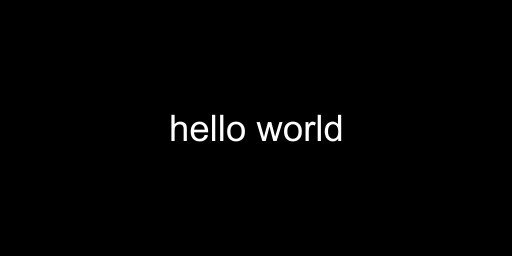
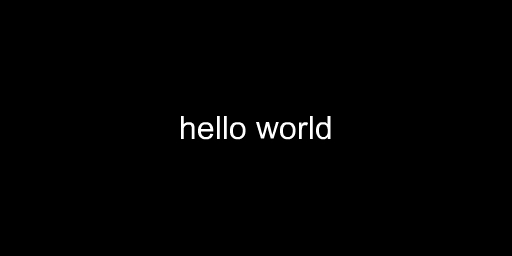
feat!: migrate from Canvas to Jimp
BREAKING CHANGE: the `--font-size` and `--font-family` flags are no longer available

Changed region(s): [[0.3125, 0.4375, 0.6875, 0.5625]]

diff --git a/src/utils/make-image.js b/src/utils/make-image.js
@@ -1,44 +1,20 @@
 import { parse, join } from 'node:path';
-import { createWriteStream } from 'node:fs';
 
-import { createCanvas } from 'canvas';
+import Jimp from 'jimp';
 
 /**
  * Generates a placeholder image.
  * @param {number} width - The width of the canvas (in pixels).
  * @param {number} height - The height of the canvas (in pixels).
  * @param {object} options - Configuration options for image generation.
- * @param {string} options.background - Background color for the image.
- * @param {string} options.textColor - Text color for the image.
+ * @param {string} options.background - Background color for the image (accepts CSS colors - Hex, RGB, RGBA, HSL, HSLA, HSV, HSVA, Named)
  * @param {string} options.text - Text to display on the image.
- * @param {string} options.fontSize - Font size for the text.
- * @param {string} options.fontFamily - Font family for the text.
+ * @param {string} options.textColor - Text color for the image (accepts CSS colors - Hex, RGB, RGBA, HSL, HSLA, HSV, HSVA, Named).
  * @param {string} options.outputPath - Output path for the image.
  */
 export async function makeImage(width, height, options) {
   try {
-    const canvas = createCanvas(width, height);
-    const context = canvas.getContext('2d');
-
-    context.imageSmoothingQuality = 'high';
-    context.quality = 'best';
-    context.antialias = 'default';
-
-    context.fillStyle = options.background;
-    context.fillRect(0, 0, canvas.width, canvas.height);
-
-    context.fillStyle = options.textColor;
-
-    const fontSizeValue =
-      options.fontSize.toLowerCase() === 'auto'
-        ? `${Math.min(canvas.width, canvas.height) / 7}px`
-        : options.fontSize;
-
-    context.font = `${fontSizeValue} ${options.fontFamily}`;
-    context.textAlign = 'center';
-    context.textBaseline = 'middle';
-
-    const defaultOutputName = `${canvas.width}x${canvas.height}`;
+    const defaultOutputName = `${width}x${height}`;
     let outputDirectory = '';
     let outputName = defaultOutputName;
     let outputFormat = '.jpeg';
@@ -46,45 +22,54 @@ export async function makeImage(width, height, options) {
     if (options.outputPath) {
       const { dir, name, ext } = parse(options.outputPath);
       outputDirectory = dir;
-      outputFormat = ext;
 
-      if (ext !== '.jpeg' && ext !== '.png') {
+      if (ext && ext !== '.jpeg' && ext !== '.png') {
         throw new Error('Invalid file path or extension (only .jpeg or .png)');
+      } else {
+        outputFormat = ext;
       }
 
-      // Use the name from outputPath instead of the defaultOutputName
+      // Use the name from options.outputPath instead of the defaultOutputName
       if (name.length !== 0 && name !== '*') {
         outputName = name;
       }
     }
 
-    context.fillText(
-      options.text || defaultOutputName,
-      Math.round(canvas.width / 2),
-      Math.round(canvas.height / 2)
-    );
-
     const outputFullFilePath = join(outputDirectory, outputName + outputFormat);
 
-    const output = createWriteStream(outputFullFilePath);
+    // Create a new Jimp image with the specified width and height
+    const image = new Jimp(
+      width,
+      height,
+      Jimp.cssColorToHex(options.background || '#cccccc')
+    )
+      .colorType(2)
+      .quality(100);
 
-    const stream =
-      outputFormat === '.jpeg'
-        ? canvas.createJPEGStream({ quality: 0.9 })
-        : canvas.createPNGStream();
+    const textImage = new Jimp(width, height, 0x0);
 
-    await new Promise((resolve, reject) => {
-      stream.pipe(output);
-      output.on('finish', () => {
-        console.log(`Image saved as ${outputFullFilePath}`);
-        resolve();
-      });
+    await Jimp.loadFont(Jimp.FONT_SANS_32_BLACK).then((font) => {
+      textImage.print(
+        font,
+        0,
+        0,
+        {
+          text: options.text ?? defaultOutputName,
+          alignmentX: Jimp.HORIZONTAL_ALIGN_CENTER,
+          alignmentY: Jimp.VERTICAL_ALIGN_MIDDLE,
+        },
+        width,
+        height
+      );
 
-      output.on('error', (err) => {
-        console.error(`Error: Unable to save the image. ${err.message}`);
-        reject(err);
-      });
+      textImage.color([{ apply: 'xor', params: [options.textColor] }]);
+
+      image.blit(textImage, 0, 0);
     });
+
+    await image.writeAsync(outputFullFilePath);
+
+    console.log(`Image generated at ${outputFullFilePath}`);
   } catch (err) {
     console.error(`Error: ${err.message}`);
   }

diff --git a/src/commands/img.js b/src/commands/img.js
@@ -14,21 +14,11 @@ export const imgCommand = new Command('img')
     'Background color for the image. (e.g., "#FF0000")',
     '#cccccc'
   )
+  .option('-t, --text <text>', 'Text to display on the image.')
   .option(
     '-c, --text-color <text_color>',
     'Text color for the text. (e.g., "#0000FF")',
     '#909090'
-  )
-  .option('-t, --text <text>', 'Text to display on the image.')
-  .option(
-    '--font-size <font_size>',
-    'Font size for the text. (e.g., "24px" or "auto")',
-    'auto'
-  )
-  .option(
-    '--font-family <font_family>',
-    'Font family for the text. (e.g., "Arial")',
-    'Arial'
   )
   .option(
     '-o, --output-path <output_path>',

diff --git a/src/index.js b/src/index.js
@@ -6,7 +6,7 @@ import { imgCommand } from './commands';
 const program = new Command();
 
 program
-  .version('0.2.0')
+  .version('0.3.0')
   .description('Generate placeholders.')
   .addCommand(imgCommand)
   .parse();

diff --git a/README.md b/README.md
@@ -32,14 +32,16 @@ make-placeholder img <width> [height] [options]
 - `[height]` (in pixels): The height of the image (optional, defaults to the width).
 - `[options]`: Additional options to customize the image placeholder.
 
+**Note**: The units for `<width>` and `[height]` are expressed in pixels (px).
+
 ### Command Flags
 
 - `-b, --background <background>`: Set the background color for the image (e.g., "#FF0000"). Default: `#cccccc`.
 - `-c, --text-color <text_color>`: Define the text color for the text on the image (e.g., "#0000FF"). Default: `#909090`.
 - `-t, --text <text>`: Specify the text to display on the image.
-- `--font-size <font_size>`: Set the font size for the text (e.g., "24px" or "auto"). Default: `auto`.
-- `--font-family <font_family>`: Choose the font family for the text (e.g., "Arial"). Default: `Arial`.
 - `-o, --output-path <output_path>`: Set the output path for the image (e.g., "/path/to/output/example.jpeg").
+
+**Note**: When specifying the value for any color flags, you can set the color in various formats, including Hex, RGB, RGBA, HSL, HSLA, HSV, HSVA, and Named colors.
 
 ### Examples
 
